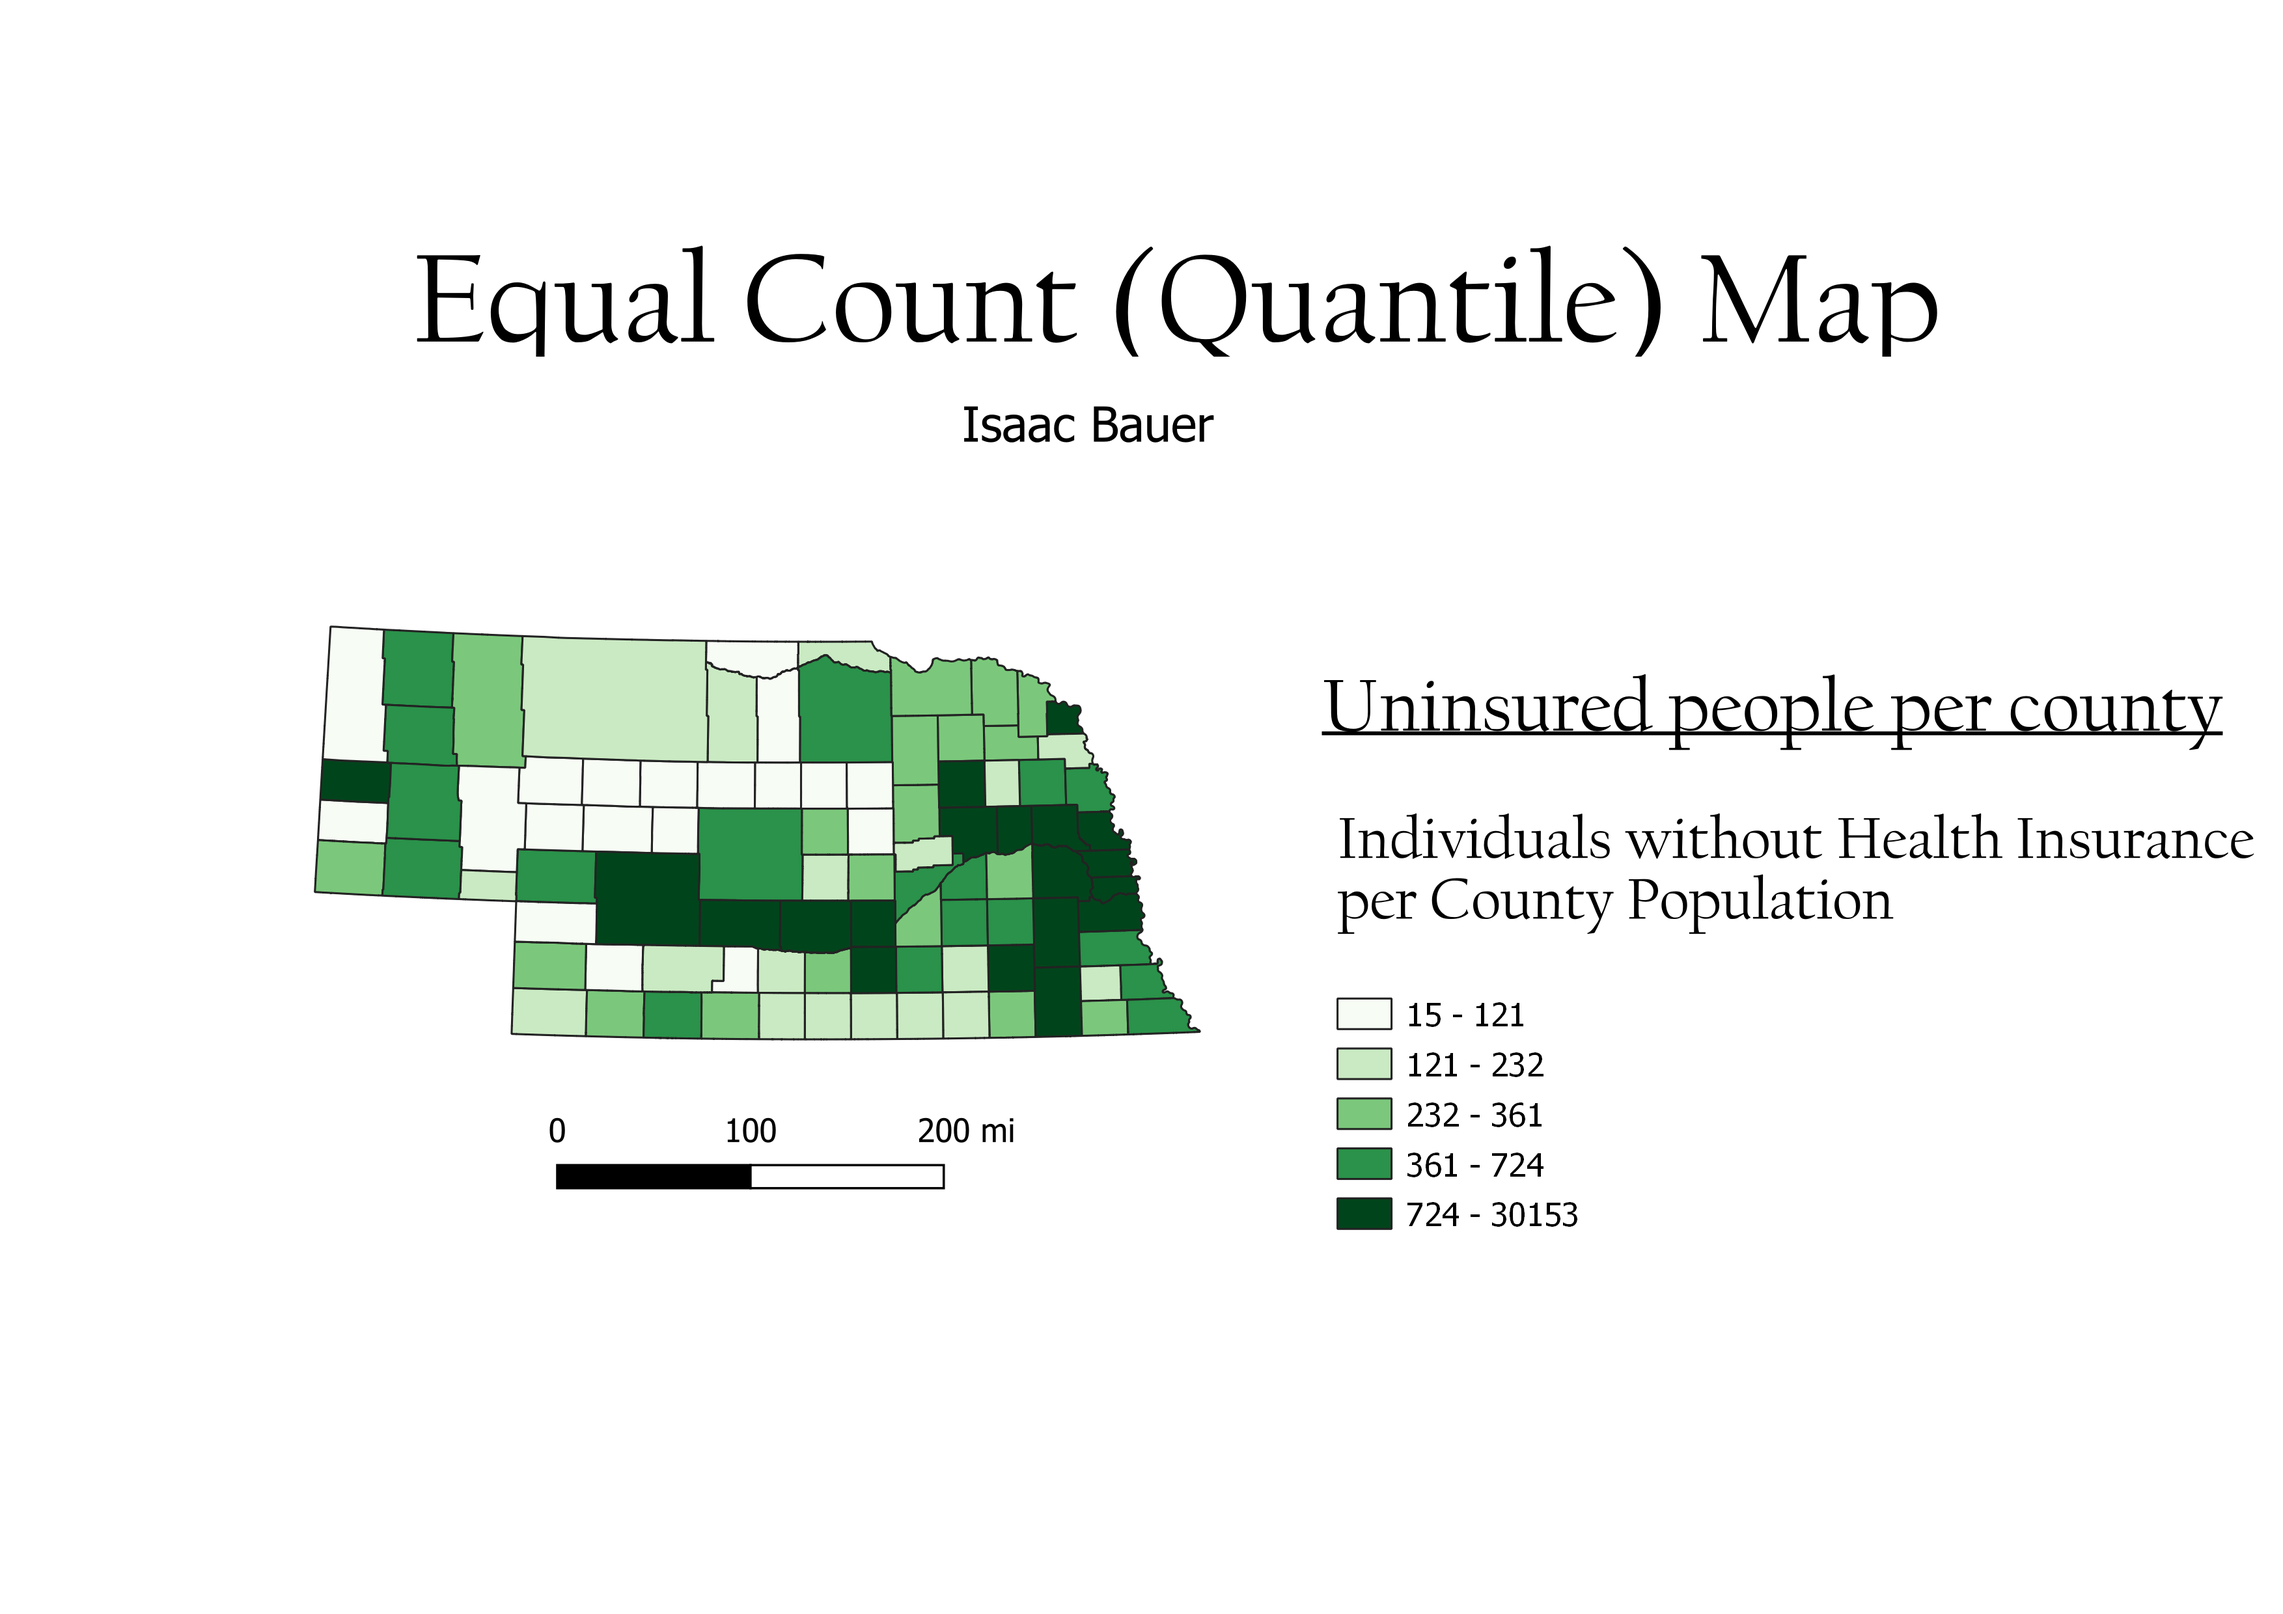
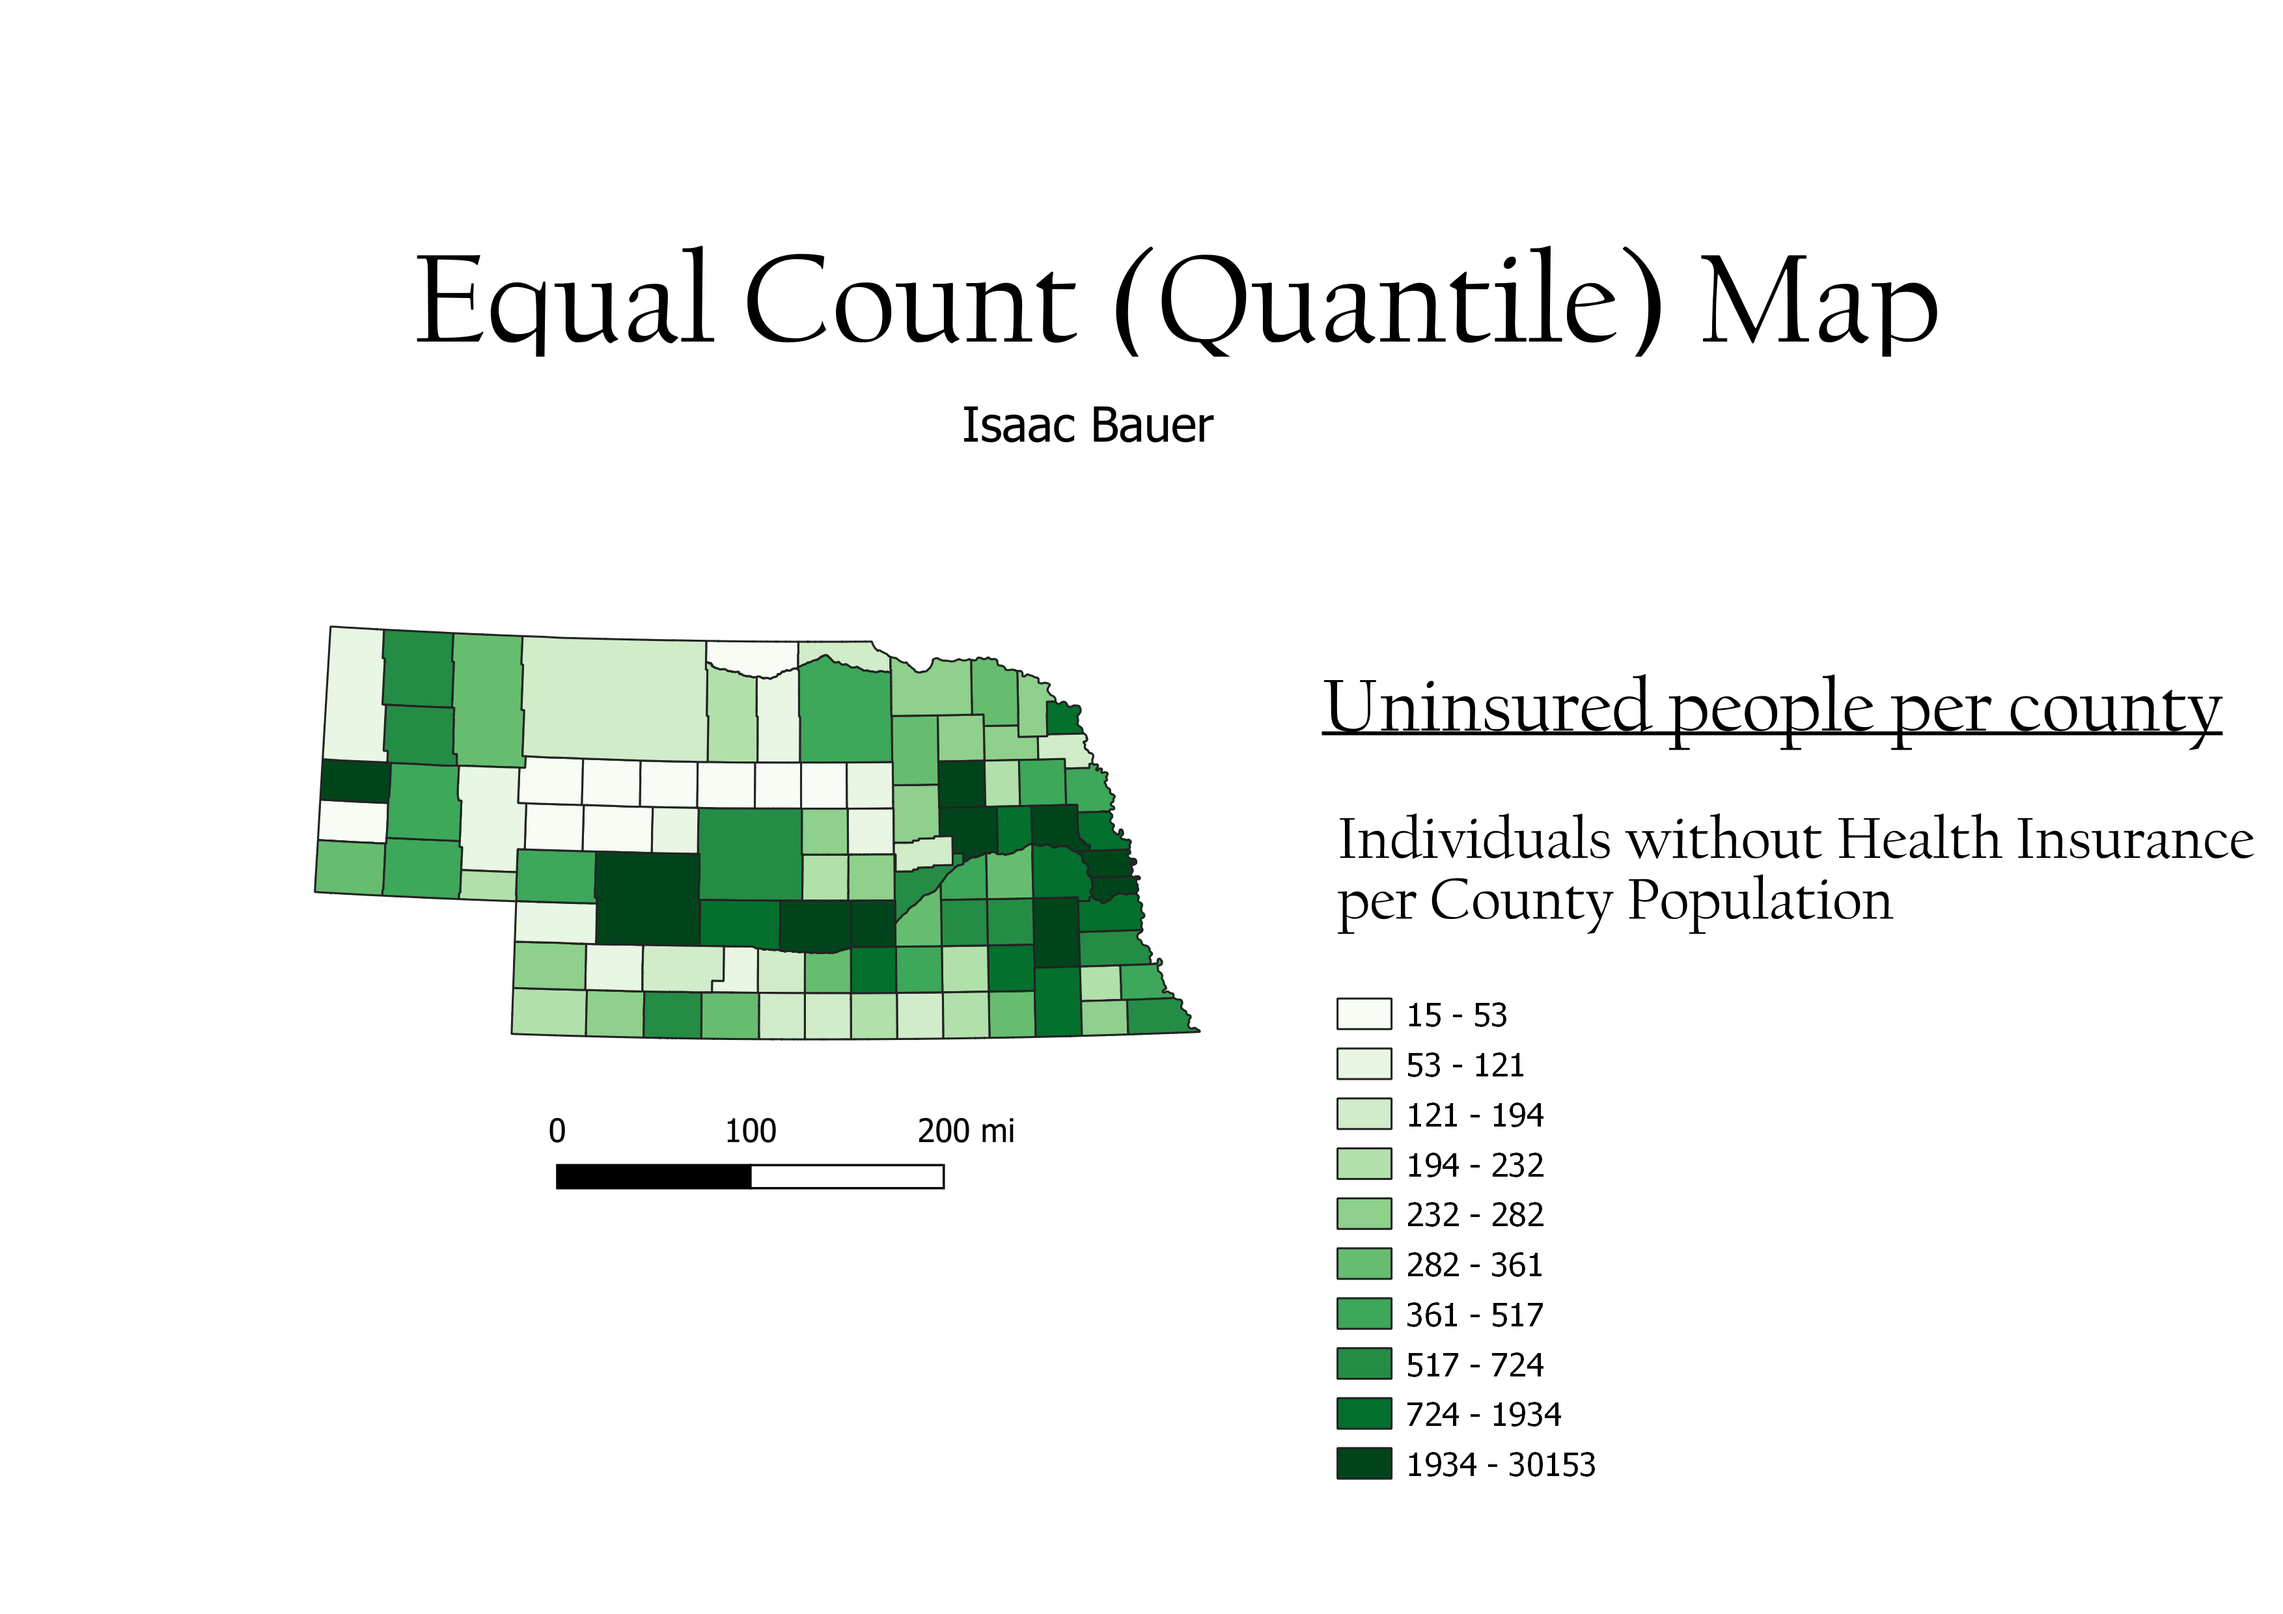
small change

diff --git a/Homework 6.2/HW6.2.html b/Homework 6.2/HW6.2.html
@@ -23,7 +23,7 @@
     </a>
 
     <h2>Logarithmic Scale Map</h2>
-    <h3>The logarithmic scale classification is best used for representing abnormally distributed continous data. An advantage is that it can be used to represent data that has an strange or extreme distribution (as is the case with this map) and highlights datapoints that have lower values, but a disadvantage is that it groups together higher values and exagerates lower values, which can be misleading. I chose this classification because the data for Nebraska is very isolated - not many uninsured people in most counties, but many uninsured people in others. 8 classes were chosen because many counties have similar values, so the colors began to blend together with a higher ratio. </h3>
+    <h3>The logarithmic scale classification is best used for representing abnormally distributed continous data. An advantage is that it can be used to represent data that has an strange or extreme distribution (as is the case with this map) and highlights datapoints that have lower values, but a disadvantage is that it groups together higher values and exagerates lower values, which can be misleading. I chose this classification because the data for Nebraska is very isolated - not many uninsured people in most counties, but many uninsured people in others. 4 classes were chosen because many counties have similar values, so the colors began to blend together with a higher number. </h3>
     <a href="./Part 2/logarithmic map.png">
     <img src="./Part 2/logarithmic map.png" alt="WGS84" width='1000px'>
     </a>
